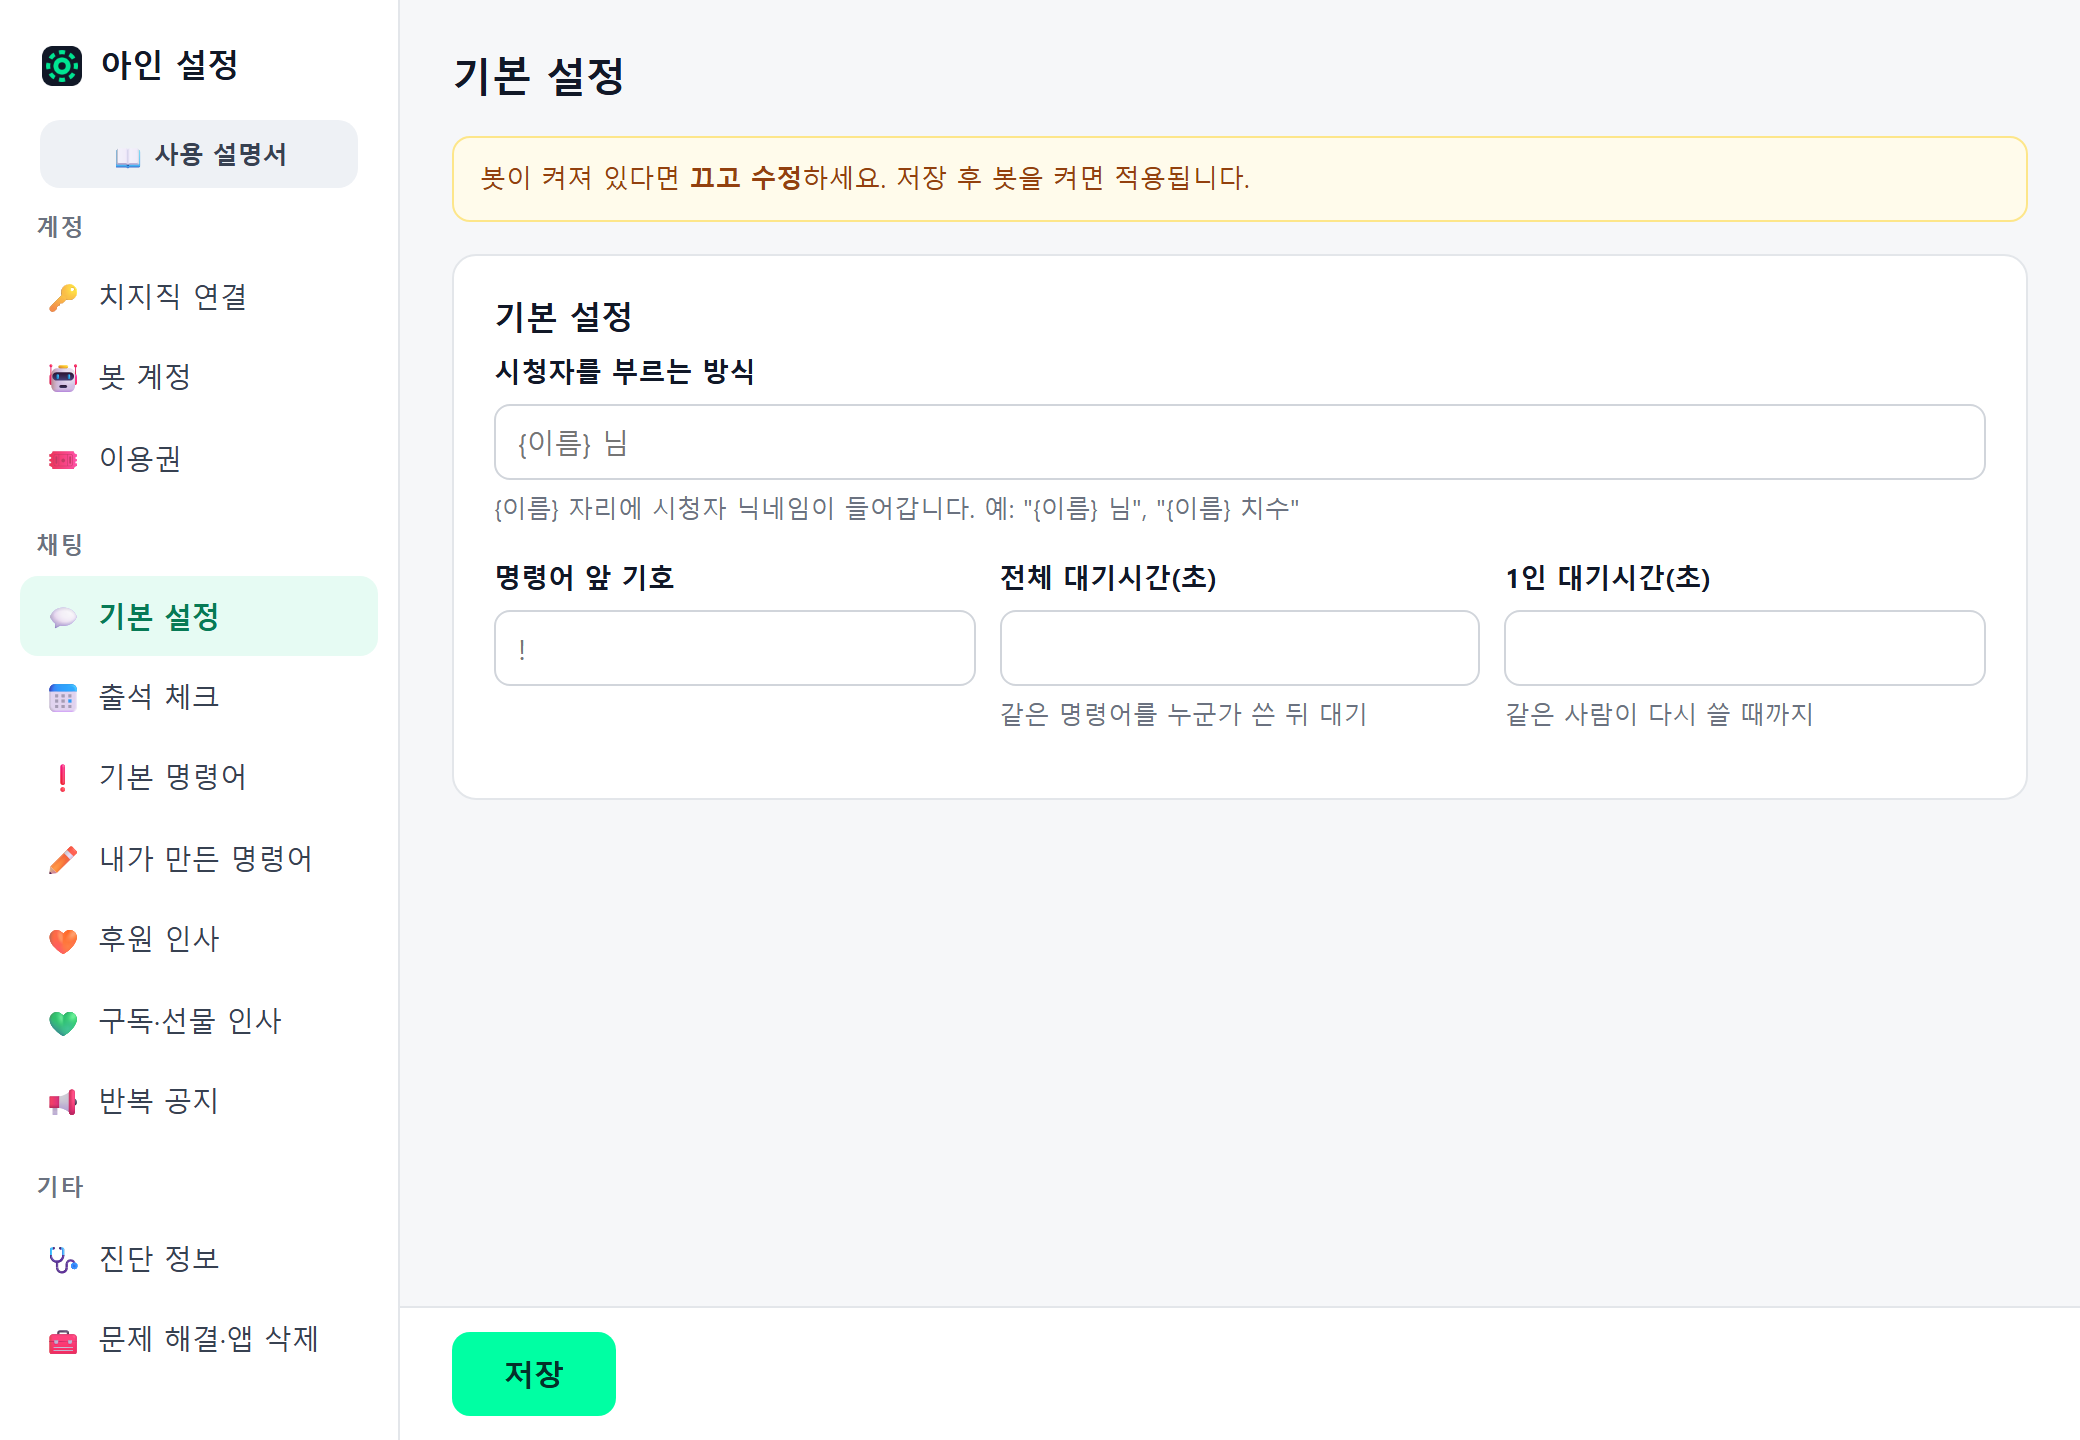
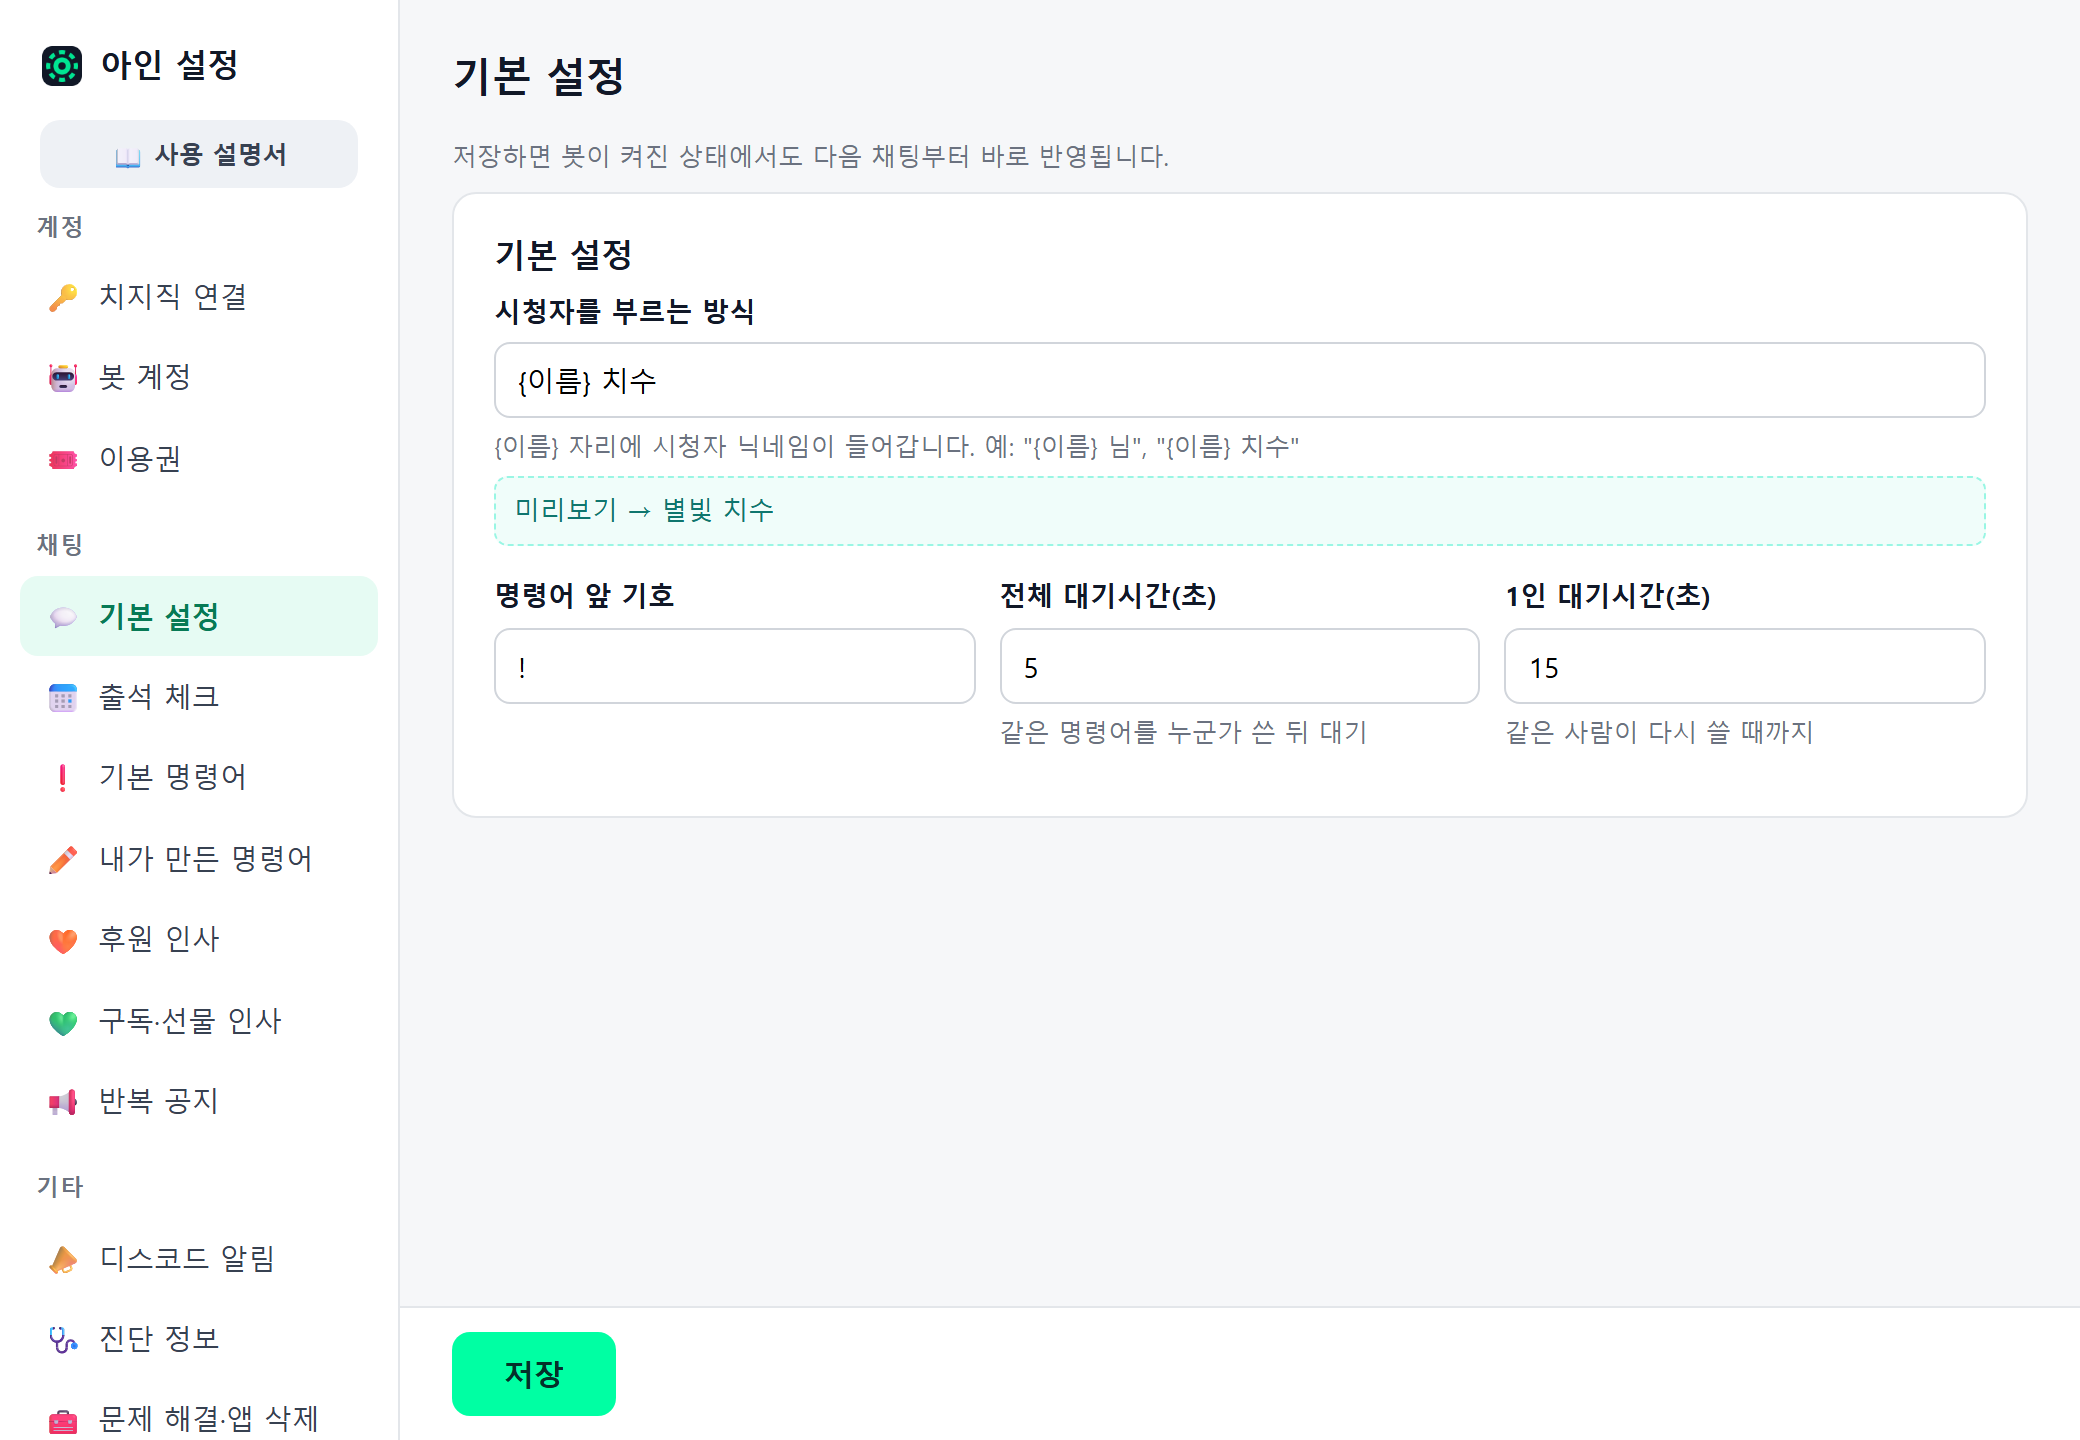
홈·비교표에 방송 시작 디스코드 알림(1.9.3) 반영, FAQ 추가, 기본 설정 화면 사진 갱신

diff --git a/index.html b/index.html
@@ -78,7 +78,10 @@
         "치즈 후원·구독·구독권 선물 감사 인사",
         "!출첵 !팔로우 !업타임 !시간 기본 명령어와 커스텀 명령어",
         "부계정 연결로 직접 정하는 봇 이름",
-        "반복 공지"
+        "반복 공지",
+        "투표·추첨·돌림판·후원 룰렛, 카운터·타이머 (OBS 오버레이)",
+        "채팅 오버레이·알림 오버레이·TTS·TITS 던지기",
+        "방송 시작 디스코드 알림 (웹훅)"
       ],
       "offers": [
         { "@type": "Offer", "name": "7일 무료 체험", "price": "0", "priceCurrency": "KRW", "url": "https://apps.microsoft.com/detail/9nw8q03rgqlv" },
@@ -120,6 +123,11 @@
           "@type": "Question",
           "name": "투표·추첨·룰렛도 되나요?",
           "acceptedAnswer": { "@type": "Answer", "text": "됩니다. 아인 창의 [기능] 버튼에서 투표·추첨·돌림판·후원 룰렛과 카운터·타이머·스톱워치를 버튼으로 진행하고, OBS 브라우저 소스로 방송 화면에 띄웁니다. 시청자는 채팅에 번호나 말 한마디만 치면 됩니다. 1.9부터는 채팅 오버레이, 알림 오버레이, TTS 읽어주기, TITS 던지기도 됩니다." }
+        },
+        {
+          "@type": "Question",
+          "name": "방송 시작을 디스코드에 알릴 수 있나요?",
+          "acceptedAnswer": { "@type": "Answer", "text": "됩니다. 설정 → [디스코드 알림]에 디스코드 채널의 웹훅 주소를 넣고 켜 두면, 방송이 시작될 때 제목·카테고리·썸네일 카드를 한 번 보냅니다. 디스코드 봇을 따로 만들거나 서버를 켜 둘 필요가 없습니다. (1.9.3부터)" }
         },
         {
           "@type": "Question",
@@ -483,7 +491,7 @@
       <div class="feat reveal"><span class="ico">💝</span><h3>후원·구독 감사 인사</h3><p>치즈 후원, 구독, <span class="k">구독권 선물까지</span> 놓치지 않고 즉시 감사 인사를 올립니다. 문구는 내 마음대로.</p></div>
       <div class="feat reveal"><span class="ico">🎲</span><h3>명령어와 반복 공지</h3><p>!출첵, !팔로우, !업타임, !시간 기본 제공. <span class="k">나만의 명령어</span>와 반복 공지도 클릭 몇 번으로 추가됩니다.</p></div>
       <div class="feat reveal"><span class="ico">🖥</span><h3>내 컴퓨터에서</h3><p>봇은 <span class="k">내 컴퓨터에서 직접</span> 돕니다. 로그인 정보와 시청자 기록은 내 PC에만 저장되고 외부로 보내지 않아요.</p></div>
-      <div class="feat reveal"><span class="ico">🔔</span><h3>알아서 챙김</h3><p>새 버전 알림, 로그인 만료 안내까지 <span class="k">앱이 먼저 알려줍니다.</span> 신경 쓸 게 없어요.</p></div>
+      <div class="feat reveal"><span class="ico">🔔</span><h3>알아서 챙김</h3><p>방송을 켜면 <span class="k">디스코드 채널에 시작 알림</span>을 보내고, 새 버전 안내와 로그인 만료 안내까지 앱이 먼저 알려줍니다.</p></div>
     </div>
     <div class="featlist reveal">
       <div class="fl"><b>지금 되는 것</b>
@@ -491,7 +499,7 @@
           <li>인사말만으로 자동 출석</li><li>누적 출석 횟수 인사</li><li>하루 기준 시각 설정</li><li>상황별 출석 문구</li><li>다른 봇 출석 기록 이어받기</li>
           <li>치즈 후원 감사 인사</li><li>후원 금액·메시지 치환</li><li>익명 후원 처리</li><li>구독 감사 인사</li><li>티어별 구독 문구</li><li>구독권 선물 감사 인사</li>
           <li>!출첵 !팔로우 !업타임 !시간</li><li>채팅에서 명령어 추가·삭제</li><li>방장 전용 명령어</li><li>{이름} {호칭} 같은 치환자</li><li>반복 공지</li>
-          <li>부계정으로 봇 이름 지정</li><li>봇 계정 로그인 창 (쿠키 복사 없음)</li><li>설정 저장 즉시 반영</li><li>새 버전·연결 끊김 알림</li>
+          <li>부계정으로 봇 이름 지정</li><li>봇 계정 로그인 창 (쿠키 복사 없음)</li><li>설정 저장 즉시 반영</li><li>새 버전·연결 끊김 알림</li><li>방송 시작 디스코드 알림 (웹훅)</li>
           <li>투표 (채팅에 번호만)</li><li>시청자 추첨 (명단·뽑기 연출)</li><li>당첨자 채팅 띄우기·TTS</li><li>돌림판</li><li>후원 룰렛 (배수만큼 걸쇠)</li><li>카운터·타이머·스톱워치</li><li>OBS 오버레이 (투표·추첨·룰렛·시간·채팅·알림)</li><li>채팅 오버레이 (치지직 닉네임 색·배지 그대로, 공유 CSS 그대로)</li><li>알림 오버레이 (후원·구독·선물·룰렛·투표·추첨)</li><li>TTS 읽어주기 (구독·선물·채팅)</li><li>TITS 물건 던지기 (VTube Studio)</li><li>다크 모드</li><li>!봇 명령어</li>
         </ul>
       </div>
@@ -579,6 +587,10 @@
       <details class="reveal">
         <summary>투표·추첨·룰렛도 되나요?</summary>
         <p>됩니다. 아인 창의 [기능] 버튼에서 투표·추첨·돌림판·후원 룰렛과 카운터·타이머·스톱워치를 버튼으로 진행하고, OBS 브라우저 소스로 방송 화면에 띄웁니다. 시청자는 채팅에 번호나 말 한마디만 치면 되고 명령어를 외울 필요가 없습니다. <a href="/guide/participation/">참여 기능 가이드</a> 1.9부터는 채팅 오버레이, 알림 오버레이, TTS 읽어주기, TITS 던지기도 됩니다. <a href="/guide/overlay/">화면·소리 가이드</a></p>
+      </details>
+      <details class="reveal">
+        <summary>방송 시작을 디스코드에 알릴 수 있나요?</summary>
+        <p>됩니다. 설정 → [디스코드 알림]에 디스코드 채널의 웹훅 주소를 넣고 켜 두면, 방송이 시작될 때 제목·카테고리·썸네일 카드를 한 번 보냅니다. 디스코드 봇을 따로 만들거나 서버를 켜 둘 필요가 없어요. 봇을 방송 시작 10분 뒤에 켜면 보내지 않고, 방송이 잠깐 끊겼다 30분 안에 다시 시작해도 다시 보내지 않습니다. (1.9.3부터)</p>
       </details>
       <details>
         <summary>환불이 되나요?</summary>

diff --git a/compare/index.html b/compare/index.html
@@ -130,6 +130,7 @@
 <tr><th>후원 감사 인사 (채팅)</th><td class="me"><b class="y">○</b> {금액}·{메시지} 치환, 익명 후원 포함</td><td><b class="h">△</b> 화면 알림·TTS</td><td><span class="d">—</span></td><td><b class="y">○</b> 금액 구간별</td><td><span class="d">—</span></td><td><span class="d">—</span></td></tr>
 <tr><th>구독·구독권 선물 인사</th><td class="me"><b class="y">○</b> 티어별, 선물 인사</td><td><span class="d">—</span> 구독 변수만</td><td><span class="d">—</span></td><td><b class="y">○</b> 구독 알림 오버레이</td><td><span class="d">—</span></td><td><span class="d">—</span></td></tr>
 <tr><th>반복 공지</th><td class="me"><b class="y">○</b></td><td><b class="y">○</b> 매크로</td><td><span class="d">—</span></td><td><b class="y">○</b> 정기 메시지</td><td><span class="d">—</span></td><td><span class="d">—</span></td></tr></tbody><tbody><tr class="grp"><th colspan="7">시청자 참여와 방송 화면<span>방송 중 버튼이나 채팅으로 진행하는 기능</span></th></tr><tr><th>투표</th><td class="me"><b class="y">○</b> 번호 채팅, 오버레이</td><td><span class="d">—</span></td><td><span class="d">—</span></td><td><b class="y">○</b></td><td><span class="d">—</span></td><td><b class="y">○</b> 번호 채팅</td></tr>
+<tr><th>방송 시작 디스코드 알림</th><td class="me"><b class="y">○</b> 웹훅 주소만 넣으면 됨 (1.9.3)</td><td><span class="d">—</span></td><td><span class="d">—</span></td><td><span class="d">—</span></td><td><span class="d">—</span></td><td><span class="d">—</span></td></tr>
 <tr><th>추첨</th><td class="me"><b class="y">○</b> 명단·연출·당첨자 채팅</td><td><b class="y">○</b> !참여 모집 → 추첨</td><td><span class="d">—</span></td><td><b class="y">○</b> 당첨자에게 코드 전달</td><td><span class="d">—</span></td><td><b class="y">○</b></td></tr>
 <tr><th>돌림판·후원 룰렛</th><td class="me"><b class="y">○</b> 후원 금액 연차, 결과 한 줄 채팅</td><td><b class="y">○</b> 후원·채팅, 자동 연차</td><td><b class="y">○</b> 연차 제한 설정</td><td><b class="y">○</b> 후원·점수·타이머 룰렛</td><td><span class="d">—</span></td><td><b class="y">○</b></td></tr>
 <tr><th>타이머·카운터</th><td class="me"><b class="y">○</b> 스톱워치 포함, 오버레이</td><td><b class="y">○</b> 오버레이</td><td><b class="y">○</b> 명령어</td><td><b class="y">○</b></td><td><span class="d">—</span></td><td><span class="d">—</span></td></tr></tbody><tbody><tr class="grp"><th colspan="7">확장 기능<span>아인에는 없는 것들</span></th></tr><tr><th>신청곡</th><td class="me"><span class="d">없음</span></td><td><b class="y">○</b> 노래방 포함</td><td><b class="y">○</b> 유튜브</td><td><b class="y">○</b> 노래북</td><td><span class="d">—</span></td><td><b class="y">○</b></td></tr>
@@ -137,7 +138,7 @@
 <tr><th>게임 전적·티어</th><td class="me"><span class="d">없음</span></td><td><b class="y">○</b> 6종</td><td><b class="y">○</b> 4종</td><td><b class="y">○</b> 9종</td><td><span class="d">—</span></td><td><span class="d">—</span></td></tr>
 <tr><th>미니게임</th><td class="me"><span class="d">없음</span></td><td><b class="y">○</b> 가위바위보</td><td><b class="y">○</b> 가위바위보 등</td><td><b class="y">○</b> 30종 이상</td><td><span class="d">—</span></td><td><span class="d">—</span></td></tr>
 <tr><th>자동 자막·아바타 연동</th><td class="me"><b class="h">△</b> TITS 던지기 (자막 없음)</td><td><span class="d">—</span></td><td><span class="d">—</span></td><td><b class="y">○</b> 버추얼 연동</td><td><span class="d">—</span></td><td><b class="y">○</b> 자막·TITS</td></tr></tbody></table></div>
-      <p class="legend">아인 열의 설명은 1.9 기준입니다. 아인은 채팅 응대·시청자 참여·방송 화면(오버레이·TTS·TITS)에 집중하고, 신청곡·미니게임·게임 전적·자동 자막은 없습니다.</p>
+      <p class="legend">아인 열의 설명은 1.9.3 기준입니다. 아인은 채팅 응대·시청자 참여·방송 화면(오버레이·TTS·TITS)에 집중하고, 신청곡·미니게임·게임 전적·자동 자막은 없습니다.</p>
 
       <h2 id="each">각 봇이 특히 강한 것</h2>
       <p>공식 안내에서 각 봇이 앞세우는 점을 한 줄씩 옮깁니다. 기능 수만 세면 한봇이 가장 많고, 그다음이 뚜봇입니다.</p>
@@ -173,6 +174,7 @@
       <ul>
         <li>2026-09-20 — 첫 게시.</li>
         <li>2026-09-20 — 아인 1.9.0 반영: 채팅 오버레이·채팅 TTS ○, 아바타 연동 △(TITS 던지기).</li>
+        <li>2026-09-23 — 아인 1.9.3 반영: 방송 시작 디스코드 알림(웹훅) 행 추가. 다른 봇은 공식 안내에서 찾지 못해 —.</li>
       </ul>
 
       <div class="related">

diff --git a/guide/commands/index.html b/guide/commands/index.html
@@ -269,7 +269,7 @@
 
       <h2 id="settings">문구와 이름 바꾸기</h2>
       <p>아인 창의 [설정]을 누르면 브라우저에 설정 화면이 열립니다. <b>명령어 설정</b> 항목에서 아래를 바꿀 수 있고, 저장하면 봇이 켜진 상태에서도 바로 반영됩니다. API 키나 봇 계정을 바꿨을 때만 봇을 껐다 켜면 됩니다.</p>
-      <img src="/img/settings.png?v=190921" alt="아인 설정 창 — 기본 설정 화면. 왼쪽 목록에 계정·채팅·기타 항목, 오른쪽에 시청자 호칭·명령어 앞 기호·대기시간 칸" width="1040" height="720" loading="lazy">
+      <img src="/img/settings.png?v=190923" alt="아인 설정 창 — 기본 설정 화면. 왼쪽 목록에 계정·채팅·기타 항목, 오른쪽에 시청자 호칭·명령어 앞 기호·대기시간 칸" width="1040" height="720" loading="lazy">
       <ul>
         <li><b>시청자를 부르는 방식</b>: 기본은 "{이름} 치수". "{이름} 님", "{이름}아" 처럼 방송 분위기에 맞게.</li>
         <li><b>명령어 앞 기호</b>: 기본은 <code>!</code>. 다른 봇과 겹치면 <code>?</code>나 <code>#</code>으로.</li>
